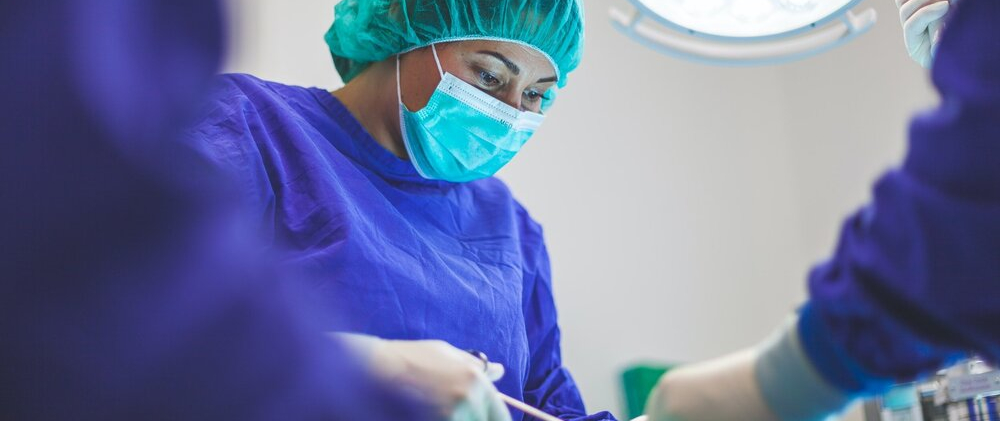
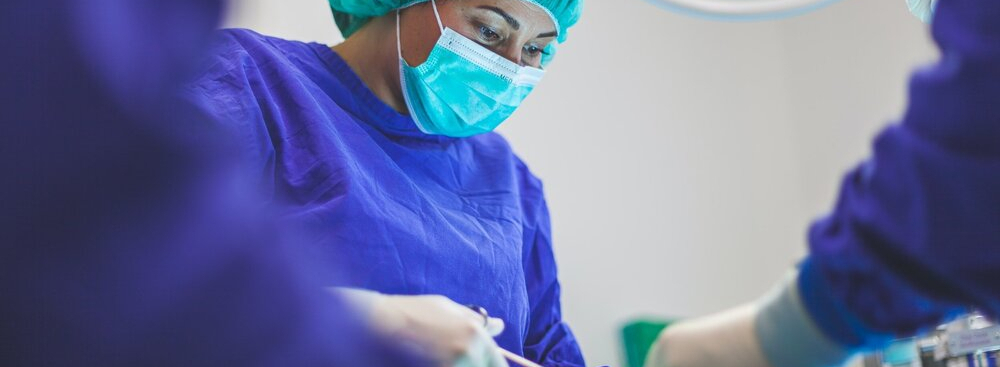
Reduce space used by header
Reduced height of front page image (was higher than helse-nord)
Only one sentence about helseatlas

diff --git a/src/components/MainBanner/MainBanner.tsx b/src/components/MainBanner/MainBanner.tsx
@@ -13,7 +13,7 @@ type MainBannerProps = {
 export const MainBanner: React.FC<MainBannerProps> = ({
   lang = "no",
   title = "Likeverdige helsetjenester – uansett hvor du bor?",
-  ingress = "I Norge er det et mål at hele befolkningen skal ha et likeverdig tilbud av helsetjenester på tvers av geografi og sosiale grupper. Helseatlas er et verktøy for å sammenlikne befolkningens bruk av helsetjenester i forskjellige geografiske områder, uavhengig av hvilket sted pasientene behandles.",
+  ingress = "Helseatlas sammenlikner befolkningens bruk av helsetjenester i forskjellige geografiske områder, uavhengig av hvilket sted pasientene behandles.",
   imageSource = "/helseatlas/img/frontpage.jpg",
 }) => {
   const engTitle = "Equitable health services – regardless of where you live?";
@@ -27,8 +27,8 @@ export const MainBanner: React.FC<MainBannerProps> = ({
             loader={imgLoader}
             src={imageSource}
             alt={"mainpage photo"}
-            width={1220}
-            height={514}
+            width={1184}
+            height={435}
           />
           <h1 className={classNames.pageTitle}>
             {lang === "en" ? engTitle : title}
